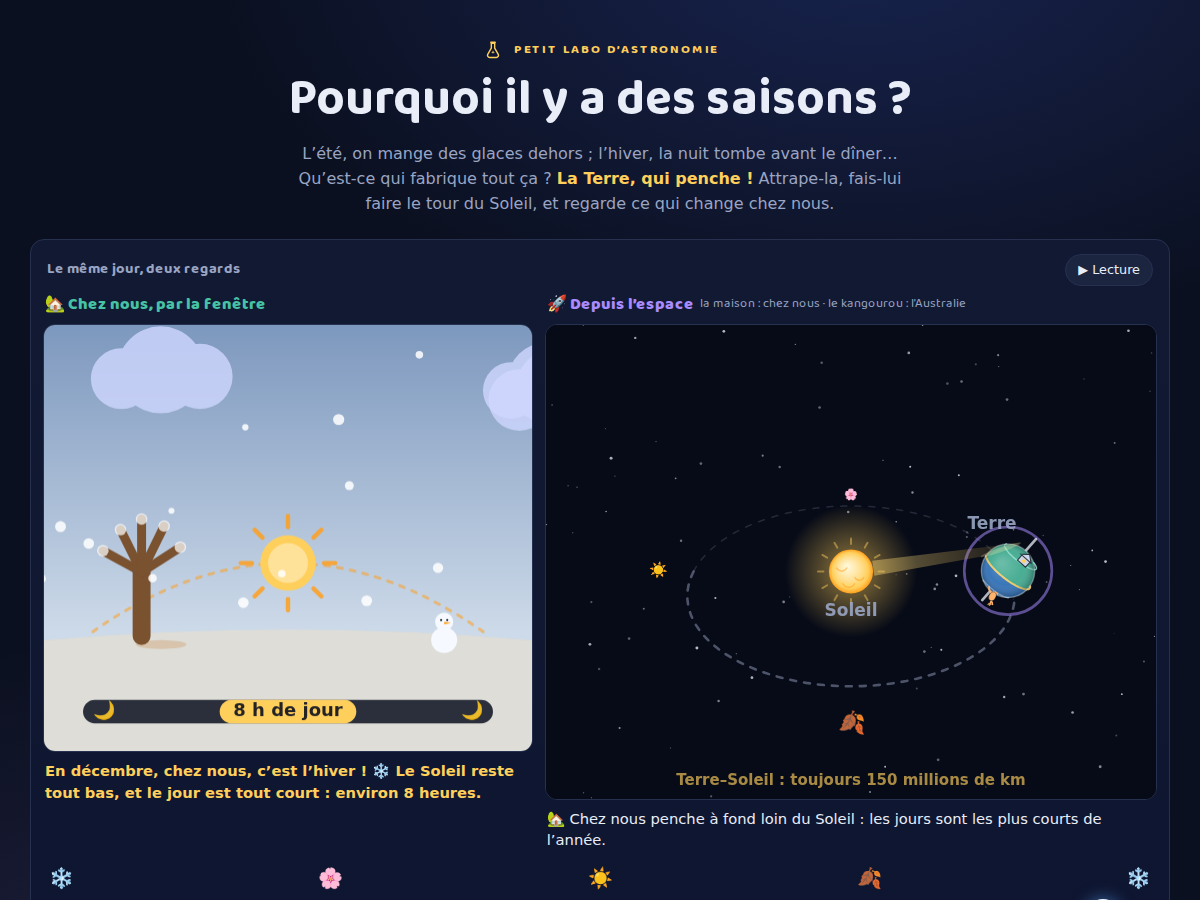
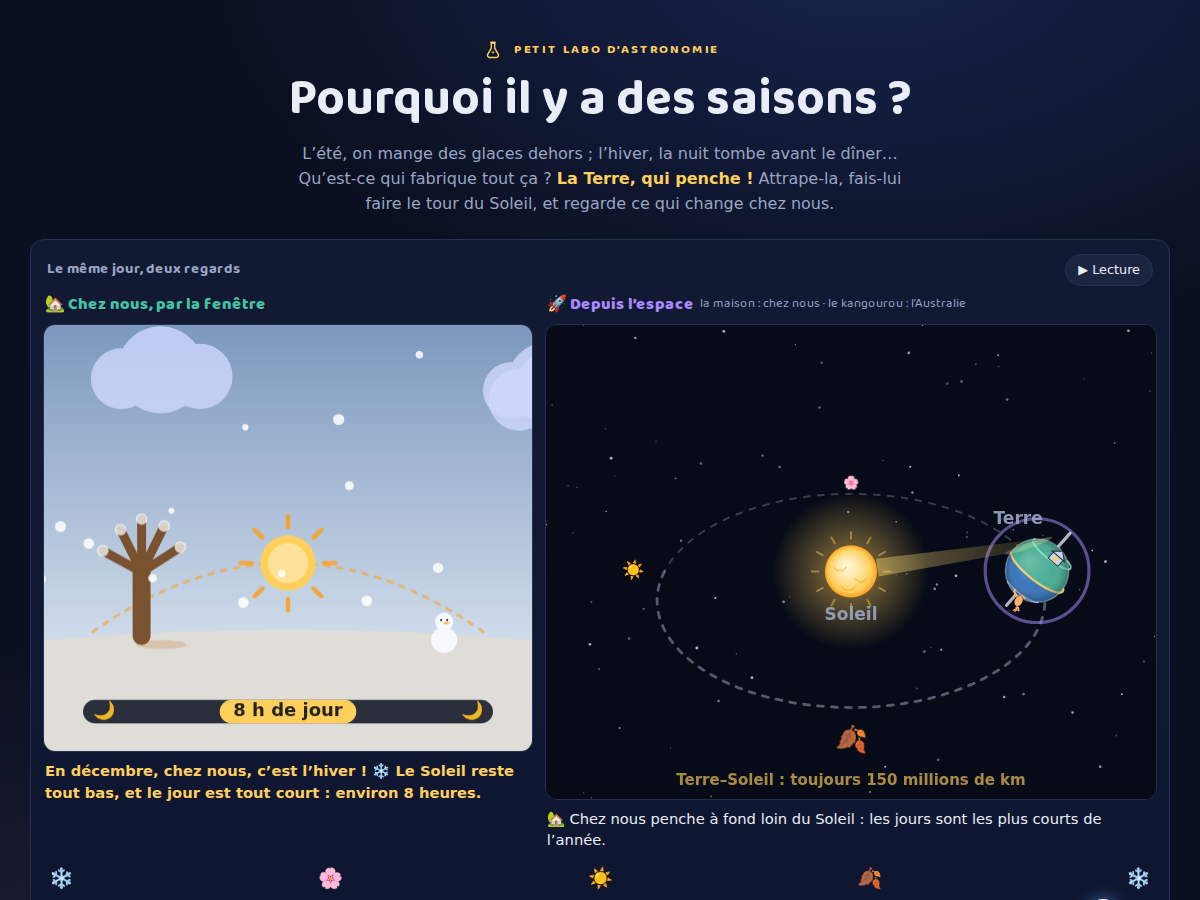
fix: la scène 3D remplit son cadre, les pointillés arrière se voient
Retour d'essai sur téléphone : trop de vide, de toutes petites planètes.
Le cadrage passe de min(0,8 l ; 1,35 h) à min(1,18 l ; 1,22 h) — l'orbite
occupe ~85 % de la largeur, Soleil et Terre grossissent d'autant, et le
plafond vertical garde le globe au-dessus de la légende de distance
quand la Terre passe au premier plan. La moitié arrière de l'orbite
gagne en présence (alpha 0,34, trait 1,9) et les repères de saison se
resserrent d'un cran pour rester dans le cadre.

Claude-Session: https://claude.ai/code/session_018g4iGsVy9rHqQjnC3SGe4X

diff --git a/js/vue-orbite.js b/js/vue-orbite.js
@@ -188,7 +188,7 @@ export function creerVueOrbite(canvas) {
     var compact = Math.min(w, h) < 400 * (window.devicePixelRatio || 1);
     return {
       w: w, h: h, cx: w * 0.5, cy: h * 0.52,
-      f: Math.min(w * 0.8, h * 1.35), compact: compact
+      f: Math.min(w * 1.18, h * 1.22), compact: compact
     };
   }
 
@@ -468,8 +468,8 @@ export function creerVueOrbite(canvas) {
       /* l'orbite en perspective : la moitié ARRIÈRE discrète, puis la
        * moitié AVANT nette et plus épaisse — l'œil lit un vrai cercle */
       ctx.setLineDash([6, 8]);
-      [[Math.PI, TAU, 'rgba(154, 165, 195, 0.2)', 1.5],
-       [0, Math.PI, 'rgba(154, 165, 195, 0.48)', 2.6]].forEach(function (moitie) {
+      [[Math.PI, TAU, 'rgba(154, 165, 195, 0.34)', 1.9],
+       [0, Math.PI, 'rgba(154, 165, 195, 0.52)', 2.8]].forEach(function (moitie) {
         ctx.beginPath();
         for (var k = 0; k <= 60; k++) {
           var a = moitie[0] + (k / 60) * (moitie[1] - moitie[0]);
@@ -490,7 +490,7 @@ export function creerVueOrbite(canvas) {
         if (ecart > Math.PI) ecart = TAU - ecart;
         if (ecart < 0.45) return;
         ctx.globalAlpha = Math.min(1, (ecart - 0.45) / 0.5);
-        var e = projeter({ x: -Math.cos(rep.angle) * 1.22, y: 0, z: Math.sin(rep.angle) * 1.22 }, g);
+        var e = projeter({ x: -Math.cos(rep.angle) * 1.17, y: 0, z: Math.sin(rep.angle) * 1.17 }, g);
         ctx.font = Math.round((g.compact ? 0.11 : 0.095) * e.s) + 'px system-ui, sans-serif';
         ctx.fillText(rep.emoji, e.x, e.y);
       });
